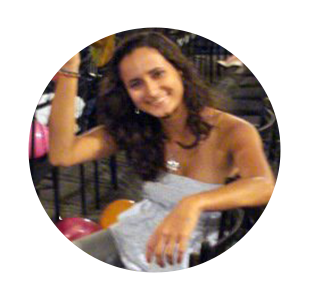
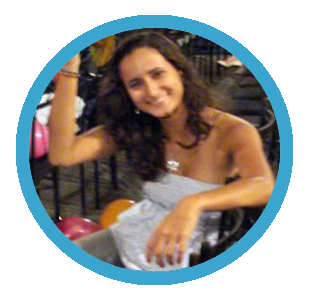
Adicionando imagens na seção de integrantes

Changed region(s): [[0.029, 0.03, 0.9581, 0.96]]

diff --git a/hybridlab/templates/index.html b/hybridlab/templates/index.html
@@ -175,7 +175,7 @@
                     <div class="col-sm-1 portfolio-item"></div>
                     <div class="col-sm-2 portfolio-item">
                         <a href="#integracao_automotiva" class="portfolio-link" data-toggle="modal">
-                             <img class="img-responsive" src="{% static "core/bootstrap-3.2.0-dist/img/icone_automotiva.png"%}" alt="" height="200" width="200">
+                             <img class="img-responsive" src="{% static "core/bootstrap-3.2.0-dist/img/alysson.png"%}" alt="" height="200" width="200">
                         </a>
                         <div class="col-md-2 text-center">
                         <h5>Alysson Raniere</h5>
@@ -183,7 +183,7 @@
                     </div>
                     <div class="col-sm-2 portfolio-item">
                         <a href="#integracao_software" class="portfolio-link" data-toggle="modal">
-                             <img class="img-responsive" src="{% static "core/bootstrap-3.2.0-dist/img/icone_software.png"%}" alt="" height="200" width="200">
+                             <img class="img-responsive" src="{% static "core/bootstrap-3.2.0-dist/img/ana.png"%}" alt="" height="200" width="200">
                         </a>
                         <div class="col-md-2 text-center">
                         <h5>&nbsp;Ana&nbsp;Paula<br>&nbsp;&nbsp;&nbsp;Vargas</h5>
@@ -192,7 +192,7 @@
                     </div>
                     <div class="col-sm-2 portfolio-item">
                         <a href="#integracao_energia" class="portfolio-link" data-toggle="modal">
-                             <img class="img-responsive" src="{% static "core/bootstrap-3.2.0-dist/img/icone_energia.png"%}" alt="" height="200" width="200">
+                             <img class="img-responsive" src="{% static "core/bootstrap-3.2.0-dist/img/breno.png"%}" alt="" height="200" width="200">
                         </a>
                         <div class="col-md-2 text-justify">
                         <h5>&nbsp;&nbsp;Breno <br>&nbsp;&nbsp;Prince</h5>
@@ -200,7 +200,7 @@
                     </div>
                     <div class="col-sm-2 portfolio-item">
                         <a href="#integracao_eletronica" class="portfolio-link" data-toggle="modal">
-                             <img class="img-responsive" src="{% static "core/bootstrap-3.2.0-dist/img/icone_eletronica.png"%}" alt="" height="200" width="200">
+                             <img class="img-responsive" src="{% static "core/bootstrap-3.2.0-dist/img/jessica.png"%}" alt="" height="200" width="200">
                         </a>
                         <div class="col-md-2 text-center">
                         <h5>Jessica &nbsp;&nbsp;Souza</h5>
@@ -208,7 +208,7 @@
                     </div>
                     <div class="col-sm-2 portfolio-item">
                         <a href="#integracao_aeroespacial" class="portfolio-link" data-toggle="modal">
-                             <img class="img-responsive" src="{% static "core/bootstrap-3.2.0-dist/img/icone_aeroespacial.png"%}" alt="" height="200" width="200">
+                             <img class="img-responsive" src="{% static "core/bootstrap-3.2.0-dist/img/lais.png"%}" alt="" height="200" width="200">
                         </a>
                         <div class="col-md-2 text-center">
                         <h5>Laís Lima</h5>
@@ -222,7 +222,7 @@
                     <div class="col-sm-1 portfolio-item"></div>
                     <div class="col-sm-2 portfolio-item">
                         <a href="#integracao_automotiva" class="portfolio-link" data-toggle="modal">
-                             <img class="img-responsive" src="{% static "core/bootstrap-3.2.0-dist/img/icone_automotiva.png"%}" alt="" height="200" width="200">
+                             <img class="img-responsive" src="{% static "core/bootstrap-3.2.0-dist/img/lana.png"%}" alt="" height="200" width="200">
                         </a>
                         <div class="col-md-2 text-center">
                         <h5>&nbsp;&nbsp;Lana Beatriz</h5>
@@ -230,7 +230,7 @@
                     </div>
                     <div class="col-sm-2 portfolio-item">
                         <a href="#integracao_software" class="portfolio-link" data-toggle="modal">
-                             <img class="img-responsive" src="{% static "core/bootstrap-3.2.0-dist/img/icone_software.png"%}" alt="" height="200" width="200">
+                             <img class="img-responsive" src="{% static "core/bootstrap-3.2.0-dist/img/leandro.png"%}" alt="" height="200" width="200">
                         </a>
                         <div class="col-md-2 text-center">
                         <h5>Leandro &nbsp;&nbsp;Veloso</h5>
@@ -238,7 +238,7 @@
                     </div>
                     <div class="col-sm-2 portfolio-item">
                         <a href="#integracao_energia" class="portfolio-link" data-toggle="modal">
-                             <img class="img-responsive" src="{% static "core/bootstrap-3.2.0-dist/img/icone_energia.png"%}" alt="" height="200" width="200">
+                             <img class="img-responsive" src="{% static "core/bootstrap-3.2.0-dist/img/lucas.png"%}" alt="" height="200" width="200">
                         </a>
                         <div class="col-md-2 text-justify">
                         <h5>&nbsp;&nbsp;&nbsp;Lucas Carneiro</h5>
@@ -246,7 +246,7 @@
                     </div>
                     <div class="col-sm-2 portfolio-item">
                         <a href="#integracao_eletronica" class="portfolio-link" data-toggle="modal">
-                             <img class="img-responsive" src="{% static "core/bootstrap-3.2.0-dist/img/icone_eletronica.png"%}" alt="" height="200" width="200">
+                             <img class="img-responsive" src="{% static "core/bootstrap-3.2.0-dist/img/mariele.png"%}" alt="" height="200" width="200">
                         </a>
                         <div class="col-md-2 text-center">
                         <h5>Marielle &nbsp;&nbsp;Santos</h5>
@@ -254,7 +254,7 @@
                     </div>
                     <div class="col-sm-2 portfolio-item">
                         <a href="#integracao_aeroespacial" class="portfolio-link" data-toggle="modal">
-                             <img class="img-responsive" src="{% static "core/bootstrap-3.2.0-dist/img/icone_aeroespacial.png"%}" alt="" height="200" width="200">
+                             <img class="img-responsive" src="{% static "core/bootstrap-3.2.0-dist/img/paulo.png"%}" alt="" height="200" width="200">
                         </a>
                         <div class="col-md-2 text-center">
                         <h5>&nbsp;&nbsp;&nbsp;&nbsp;Paulo Guilherme</h5>
@@ -269,7 +269,7 @@
                     <div class="col-sm-1 portfolio-item"></div>
                     <div class="col-sm-2 portfolio-item">
                         <a href="#integracao_automotiva" class="portfolio-link" data-toggle="modal">
-                             <img class="img-responsive" src="{% static "core/bootstrap-3.2.0-dist/img/icone_automotiva.png"%}" alt="" height="200" width="200">
+                             <img class="img-responsive" src="{% static "core/bootstrap-3.2.0-dist/img/tatiane.png"%}" alt="" height="200" width="200">
                         </a>
                         <div class="col-md-2 text-center">
                         <h5>&nbsp;&nbsp;&nbsp;Tatiane Rodrigues</h5>
@@ -277,7 +277,7 @@
                     </div>
                     <div class="col-sm-2 portfolio-item">
                         <a href="#integracao_software" class="portfolio-link" data-toggle="modal">
-                             <img class="img-responsive" src="{% static "core/bootstrap-3.2.0-dist/img/icone_software.png"%}" alt="" height="200" width="200">
+                             <img class="img-responsive" src="{% static "core/bootstrap-3.2.0-dist/img/wanessa.png"%}" alt="" height="200" width="200">
                         </a>
                         <div class="col-md-2 text-center">
                         <h5>Wanessa Christina</h5>
@@ -285,7 +285,7 @@
                     </div>
                     <div class="col-sm-2 portfolio-item">
                         <a href="#integracao_energia" class="portfolio-link" data-toggle="modal">
-                             <img class="img-responsive" src="{% static "core/bootstrap-3.2.0-dist/img/icone_energia.png"%}" alt="" height="200" width="200">
+                             <img class="img-responsive" src="{% static "core/bootstrap-3.2.0-dist/img/william.png"%}" alt="" height="200" width="200">
                         </a>
                         <div class="col-md-2 text-justify">
                         <h5>William Macedo</h5>
@@ -301,7 +301,7 @@
                     </div>
                     <div class="col-sm-2 portfolio-item">
                         <a href="#integracao_aeroespacial" class="portfolio-link" data-toggle="modal">
-                             <img class="img-responsive" src="{% static "core/bootstrap-3.2.0-dist/img/icone_aeroespacial.png"%}" alt="" height="200" width="200">
+                             <img class="img-responsive" src="{% static "core/bootstrap-3.2.0-dist/img/iago.png"%}" alt="" height="200" width="200">
                         </a>
                         <div class="col-md-2 text-center">
                         <h5>Yago Regis</h5>
